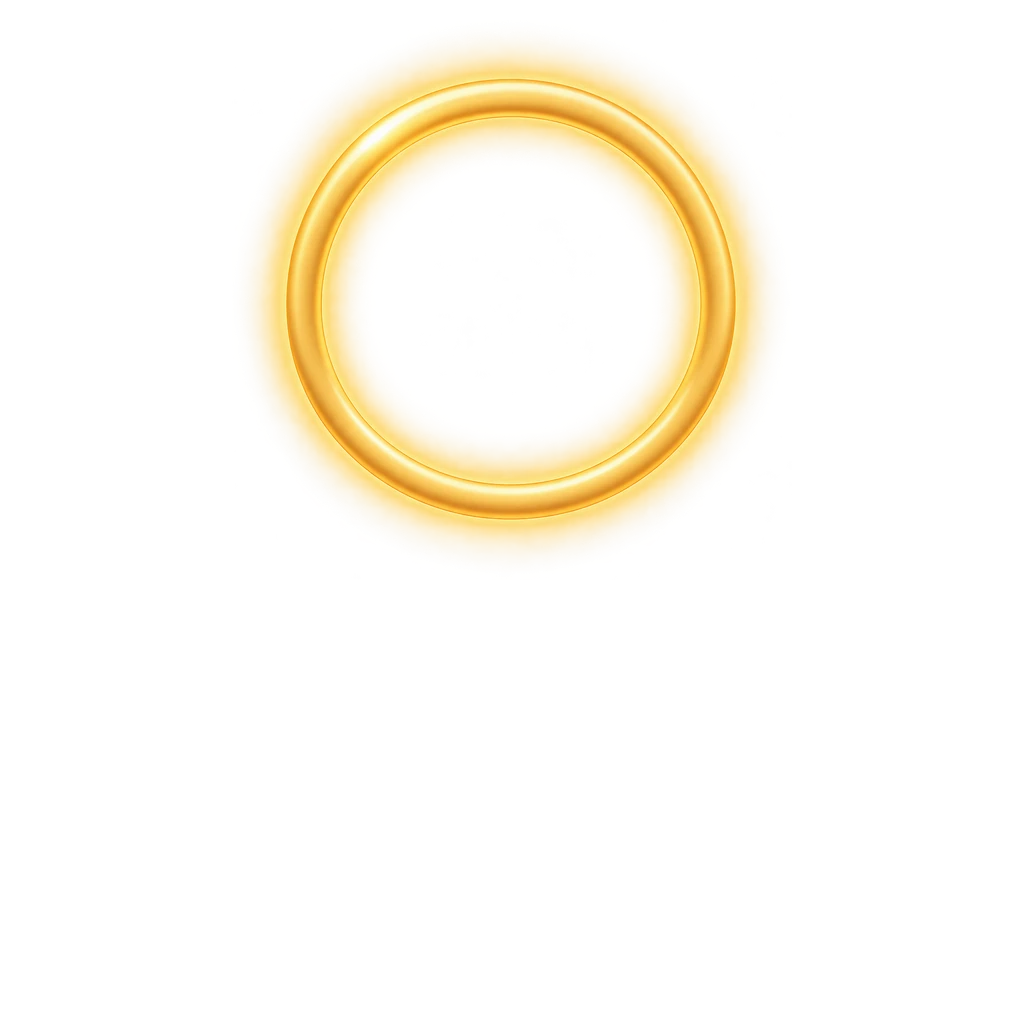
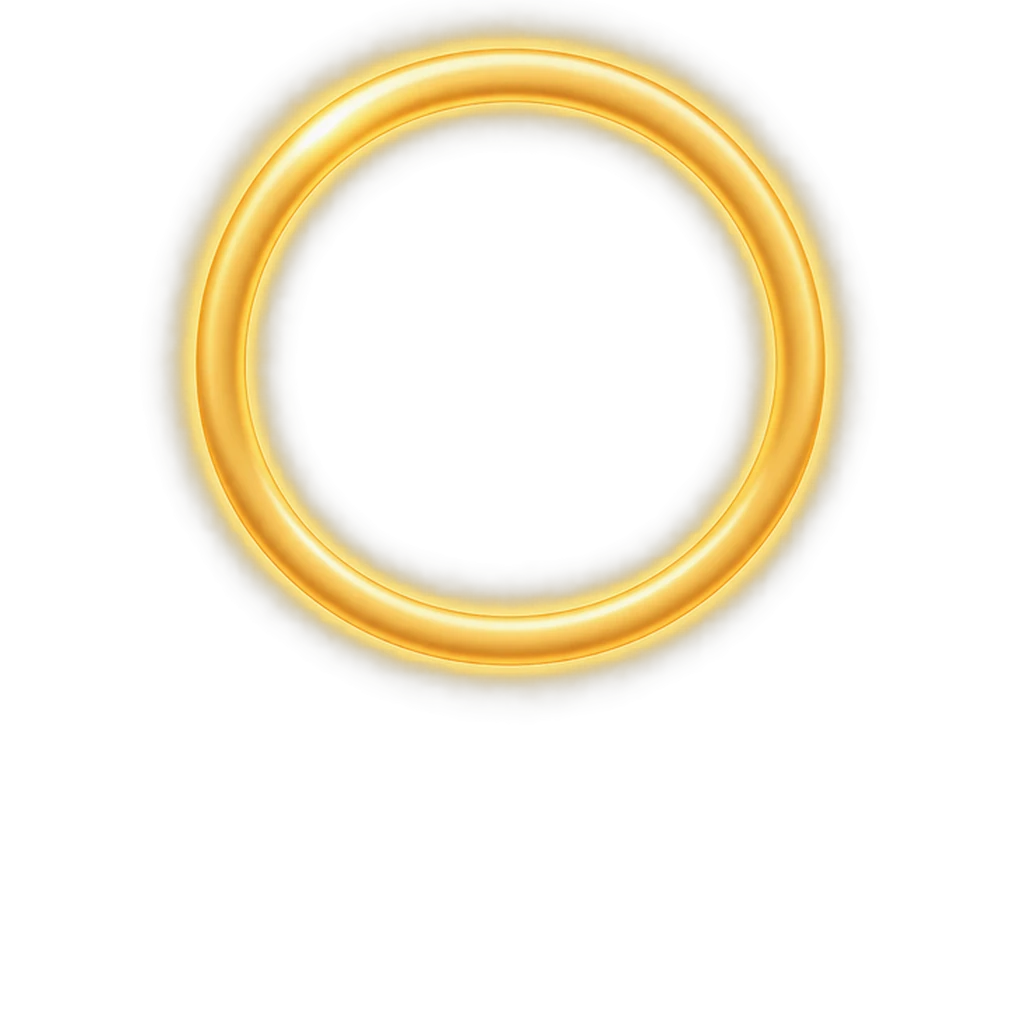
꾸미기: 후광을 1.4배로 키워 모자를 써도 머리 둘레로 보이게 한다
원래 링은 민머리 윤곽에 붙어 있어 비니·모자에 거의 다 덮였다. 제자리
소품(OVERLAYS)에서 PLACED 로 옮겨 링 중심을 두 눈 가운데에 두고 키웠다.

Changed region(s): [[0.1562, 0.0, 0.8438, 0.6875]]

diff --git a/tools/build_avatar_assets.py b/tools/build_avatar_assets.py
@@ -83,7 +83,6 @@ OVERLAYS = {
     "acc_beads": "neck",
     "acc_glasses": "eyes",
     "seat_lotus": "body",
-    "halo_ring": "head",
 }
 
 # 물건만 그려 받은 소품을 베이스에 놓는 값.
@@ -113,6 +112,10 @@ OVERLAYS = {
 #   하트 안경 눈 간격 배율은 아래 테가 입꼬리에 닿아 16% 줄이고 중심을 11px 낮춰 잡는다
 #   별 안경   눈 간격 배율은 별 아래 테가 입꼬리에 닿아 20% 줄이고 중심을 14px 낮춰 잡는다
 #   바이저    전체 폭(908)을 300px로 맞춰 얇은 띠가 두 눈 높이를 가로지르게 한다
+#   후광      원본 링(중심 510.5, 298.5) 그대로는 테가 민머리 윤곽에 겹치고 비니·
+#             모자에 다 덮인다. 1.4배로 키워 링 중심을 두 눈 가운데에 두면 테
+#             안쪽 지름이 약 510px로 비니(폭 약 470)보다 넓어 머리 둘레로 드러난다.
+#             위쪽 빛 번짐은 캔버스 위로 몇 px 잘리지만 거의 투명한 부분이다
 #   쪽쪽이    흰 방패판 폭(822)을 80px로 맞춰 입선을 작게 덮는다
 #   붕어빵    문 머리 끝에서 꼬리 끝까지(801)를 150px로 맞추면 꼬리가 y≈495에서 끝난다
 #   떡꼬치    꼬치 전체 폭(905)을 220px로 맞춰 눈 아래에서 가로로 문다
@@ -137,6 +140,7 @@ PLACED = {
     "acc_heartshades": ("eyes", 156 / 436 * 0.84, (626, 650), (510, 356), ()),
     "acc_partystars": ("eyes", 156 / 489 * 0.80, (627, 655), (510, 356), ()),
     "acc_cybervisor": ("eyes", 300 / 908, (628, 637), (510, 356), ()),
+    "halo_ring": ("head", 1.4, (510.5, 298.5), (510, 356), ()),
     "mouth_pacifier": ("mouth", 80 / 822, (627, 569), (510, 400), ()),
     "mouth_bungeoppang": ("mouth", 150 / 801, (258, 484), (510, 400), ()),
     "mouth_tteokkochi": ("mouth", 220 / 905, (629.5, 633), (510, 400), ()),

diff --git a/tools/make_avatar_thumbs.py b/tools/make_avatar_thumbs.py
@@ -54,7 +54,7 @@ HEADS = ["head_shaved", "head_nabal", "head_bamboo", "head_straw",
          "head_beanie", "head_bucket"]
 
 # 물건 자체를 보여주는 것들.
-ITEMS = ["acc_beads", "acc_glasses", "seat_lotus", "halo_ring"]
+ITEMS = ["acc_beads", "acc_glasses", "seat_lotus"]
 
 
 def alpha_bbox(image: Image.Image, threshold: int = 4):
